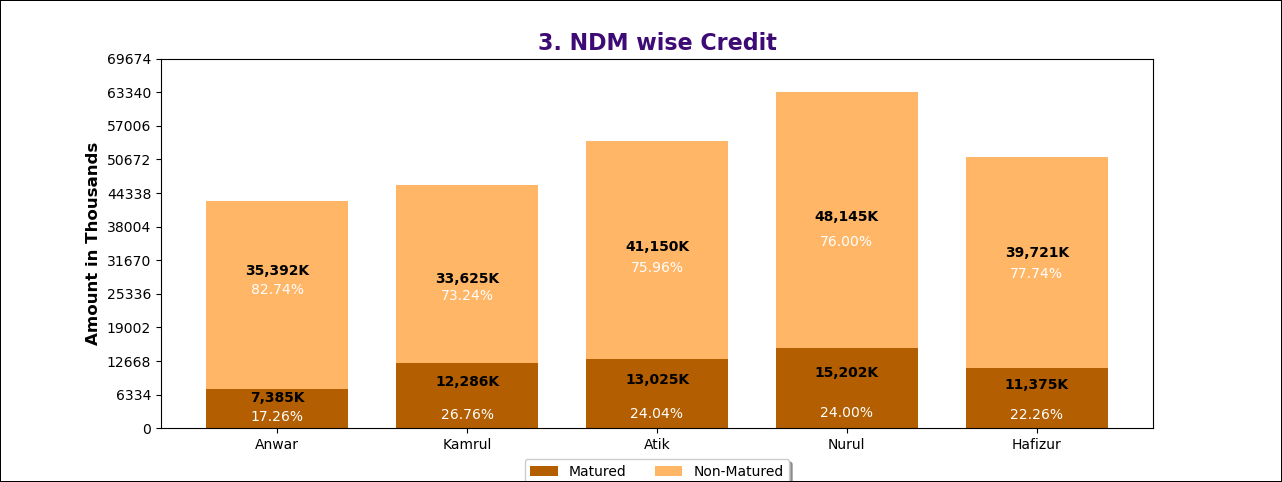
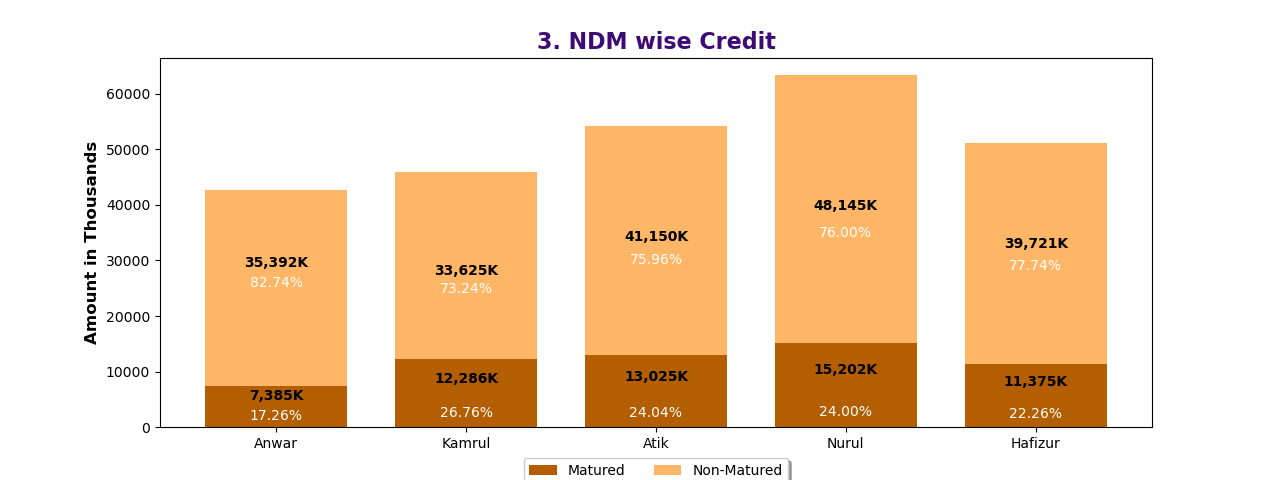
Update KPI 3

diff --git a/generate_all_kpi.py b/generate_all_kpi.py
@@ -1,67 +1,67 @@
+# #
+# # # # --------- 1. Total Outstanding -------------------------------
+# import Functions.outstanding as out
+# out.totalOutstanding()
 #
-# # # --------- 1. Total Outstanding -------------------------------
-import Functions.outstanding as out
-out.totalOutstanding()
-
-# # ------- 2. Credit Outstanding -----------------------------------
-import Functions.credit_outstanding as credit
-credit.creditOutstanding()
-
-# ---. 3. NDM wise credit outstanding -------------------------------
+# # # ------- 2. Credit Outstanding -----------------------------------
+# import Functions.credit_outstanding as credit
+# credit.creditOutstanding()
+#
+# # ---. 3. NDM wise credit outstanding -------------------------------
 import Functions.updated_ndm_outstanding as ndm_out
 ndm_out.ndm_wise_outstanding()
-#
-# # # ---- 4. matured credit aging ----------------------------------
-import Functions.matured_credit_aging as ndm_matured
-ndm_matured.matured_credit()
 # #
-# # # # ----- 5. NDM matured credit aging ---------------------------
-import Functions.ndm_matured_credit_aging as ndm_aging
-ndm_aging.ndm_matured_credit_aging()
+# # # # ---- 4. matured credit aging ----------------------------------
+# import Functions.matured_credit_aging as ndm_matured
+# ndm_matured.matured_credit()
+# # #
+# # # # # ----- 5. NDM matured credit aging ---------------------------
+# import Functions.ndm_matured_credit_aging as ndm_aging
+# ndm_aging.ndm_matured_credit_aging()
+# #
+# # # -------- 6. Branch wise matured  credit aging  -------------------
+# import Functions.updated_branch_wise_matured_credit as branch_matured
+# branch_matured.branch_wise_matured_credit()
+# #
+# # # # -- 7. Total Non-matured credit aging ---------------------------
+# import Functions.total_non_matured_credit_aging as non_matured_credit
+# non_matured_credit.total_non_matured_credit_aging()
 #
-# # -------- 6. Branch wise matured  credit aging  -------------------
-import Functions.updated_branch_wise_matured_credit as branch_matured
-branch_matured.branch_wise_matured_credit()
+# # # -- 8. NDM wise non-matured credit aging --------------------------
+# import Functions.ndm_non_matured_credit_aging as ndm_non_matured
+# ndm_non_matured.ndm_non_matured_credit_aging()
 #
-# # # -- 7. Total Non-matured credit aging ---------------------------
-import Functions.total_non_matured_credit_aging as non_matured_credit
-non_matured_credit.total_non_matured_credit_aging()
-
-# # -- 8. NDM wise non-matured credit aging --------------------------
-import Functions.ndm_non_matured_credit_aging as ndm_non_matured
-ndm_non_matured.ndm_non_matured_credit_aging()
-
-# # --- 9. Branch wise non-matured credit aging --------------------
-import Functions.updated_branch_wise_non_matured_credit as branch_non_matured
-branch_non_matured.branch_wise_non_matured_credit()
-
-# # ---10. Total Cash Drop Aging ----------------------------------
-import Functions.total_cashdrop_aging as cash_drop
-cash_drop.cashdrop_aging()
-
-# # ------------11. NDM wise cash drop aging ----------------------
-import Functions.NDM_wise_cash_drop_aging as ndm_cash_drop
-ndm_cash_drop.ndm_cash_drop()
-
-# # -- 12. Branch wise cash drop aging ----------------
-import Functions.Updated_branch_wise_cash_drop_aging as branch_cash_drop
-branch_cash_drop.branch_wise_cash_drop_aging()
-
-# # ------ 13. Nation wide return ---------------------------------
-import Functions.nation_wise_return as nation_return
-nation_return.nation_wide_return()
+# # # --- 9. Branch wise non-matured credit aging --------------------
+# import Functions.updated_branch_wise_non_matured_credit as branch_non_matured
+# branch_non_matured.branch_wise_non_matured_credit()
 #
-# # # -------14. Nation VS NDM Return ----------------------------
-import Functions.national_vs_ndm_return as nation_vs_ndm
-nation_vs_ndm.national_vs_ndm_return()
-
-# # -------15. Top 5 Branch Return -------------------------------
-import Functions.top10_branch_return as top5_branch
-top5_branch.top10_branch_return()
-
-# # ----  16.Top 5 Delivery Persons Return Amount ----------------
-import Functions.top10_delivery_person as delivery_persons_return
-delivery_persons_return.top10_delivery_persons_return()
-
-#import test1 as tt
-#tt.branch_wise_cash_drop_aging()
+# # # ---10. Total Cash Drop Aging ----------------------------------
+# import Functions.total_cashdrop_aging as cash_drop
+# cash_drop.cashdrop_aging()
+#
+# # # ------------11. NDM wise cash drop aging ----------------------
+# import Functions.NDM_wise_cash_drop_aging as ndm_cash_drop
+# ndm_cash_drop.ndm_cash_drop()
+#
+# # # -- 12. Branch wise cash drop aging ----------------
+# import Functions.Updated_branch_wise_cash_drop_aging as branch_cash_drop
+# branch_cash_drop.branch_wise_cash_drop_aging()
+#
+# # # ------ 13. Nation wide return ---------------------------------
+# import Functions.nation_wise_return as nation_return
+# nation_return.nation_wide_return()
+# #
+# # # # -------14. Nation VS NDM Return ----------------------------
+# import Functions.national_vs_ndm_return as nation_vs_ndm
+# nation_vs_ndm.national_vs_ndm_return()
+#
+# # # -------15. Top 5 Branch Return -------------------------------
+# import Functions.top10_branch_return as top5_branch
+# top5_branch.top10_branch_return()
+#
+# # # ----  16.Top 5 Delivery Persons Return Amount ----------------
+# import Functions.top10_delivery_person as delivery_persons_return
+# delivery_persons_return.top10_delivery_persons_return()
+#
+# #import test1 as tt
+# #tt.branch_wise_cash_drop_aging()

diff --git a/Functions/updated_ndm_outstanding.py b/Functions/updated_ndm_outstanding.py
@@ -161,7 +161,7 @@ def ndm_wise_outstanding():
     lib.plt.xticks(r, names)
     max_total = max(totals)/1000
 
-    lib.plt.yticks(lib.np.arange(0, int(max_total) + max_total/10, int(max_total/10)))
+    lib.plt.yticks(lib.np.arange(0, int(max_total) + max_total/10, 10000))
     lib.plt.ylabel("Amount in Thousands", fontweight='bold', fontsize=12)
     lib.plt.title('3. NDM wise Credit', fontsize=16, fontweight='bold', color='#3e0a75')
     lib.plt.legend(loc='upper center', bbox_to_anchor=(0.5, -0.065),
